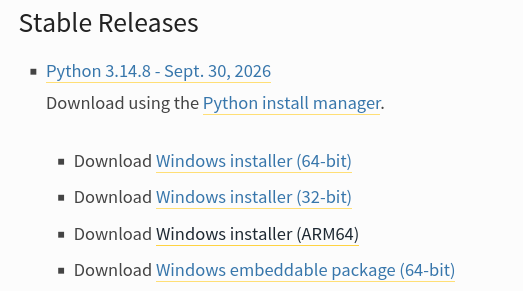
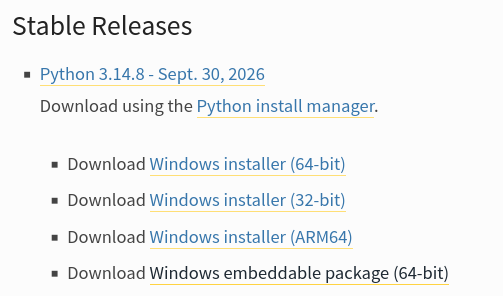
README.md finalizado

diff --git a/README.md b/README.md
@@ -56,8 +56,8 @@ Para exemplificar, incluí um documento básico em LaTeX com tudo isto:
 % Alguns exemplos de comandos:
 
 % Do 'xcolor'
-\pagecolor{black}
-\color{white}
+\pagecolor{black} % Fundo preto
+\color{white}     % Texto branco
 
 % Do BibLaTeX - usa o ficheiro bibliográfico .bib (será-te útil!)
 \addbibresource{bibliografia.bib}
@@ -153,12 +153,12 @@ Será transferido um arquivo `.zip`, que deverás extrair: abre o Explorador de 
 
 <p align="center"> <img src="imagens/biber_ficheiro.png" width="550"> </p>
 
-- **Python.** Neste site <https://www.python.org/downloads/windows/>, seleciona a opção 'Windows embeddable package (64-bit)' (como na imagem), e copia **todos os ficheiros dentro da pasta** extraída para a pasta `Latex`.
+- **Python.** Neste site <https://www.python.org/downloads/windows/>, seleciona a opção 'Windows embeddable package (64-bit)' (como na imagem), e copia **tudo dentro da pasta** extraída para a pasta `Latex`.
 
 <p align="center"> <img src="imagens/python_ficheiro.png" width="550"> </p>
 
 
-## 4. Como compilar para PDF
+### 4. Como compilar para PDF
 
 Agora que tens tudo instalado, estás preparado para compilar um relatório. Devido a diferenças da engine, só conseguirás compilar se tiveres umas pastas extras dentro da pasta `auxiliares`. Apenas tens de, na lista de ficheiros deste site, carregar no `relatorio-base.zip`, e descarregar o ficheiro:
 
@@ -167,6 +167,21 @@ Agora que tens tudo instalado, estás preparado para compilar um relatório. Dev
 Extrai a pasta e copia a resultante para um lugar à tua escolha (por exemplo, `Documentos`).
 
 #### Se estiveres no Linux (passa à frente se não)
+
+Abre o teu terminal na pasta 'relatorio-base', e usa `ls` para verificar que lá está o teu `modelo-de-relatorio.tex`. Poderás então executar o meu *script* de compilação, que chama o Tectonic automáticamente:
+
+```sh
+python make.py modelo-de-relatorio.tex
+```
+
+Podes abreviar o comando dando permissões de execução ao script. No terminal, na mesma diretoria:
+
+```bash
+chmod +x make.py
+```
+
+A partir de então, poderás compilar apenas com `./make.py modelo-de-relatorio.tex`. E parabéns, já és capaz de escrever e compilar ficheiros LaTeX!
+
 
 #### Se estiveres no Windows
 
@@ -185,9 +200,70 @@ python.exe make.py modelo-de-relatorio.tex
 O comando demorará o seu tempo a terminar. Quando deixar de escrever texto, se não houver nenhum erro, terás um ficheiro `modelo-de-relatorio.pdf` dentro da pasta, que poderás abrir e ler. Parabéns, tens uma instalação de LaTeX funcional!
 
 
-## 5. Configurar um editor de documentos
+### 5. Configurar um editor de documentos
 
+Para usar o Tectonic, recomendo-te usar o editor Visual Studio Code, da Microsoft. Existem maneiras de fazer tudo no terminal, com editores como o [Helix](https://helix-editor.com/) ou [Neovim](https://neovim.io/), mas é muito complexo, então deixei apenas os links para quem se interessar.
 
+A configuração do ambiente de edição é bastante básica: instala-se o editor, depois algumas extensões, e finalmente misturamos tudo num *layout* com tudo o que é preciso. Para instalar o editor:
+
+#### No Linux
+
+Vai à página de download do VSCode (<https://code.visualstudio.com/Download>) e clicka na opção 'x64' em '.tar.gz':
+
+<p align="center"> <img src="imagens/vscode_ficheiro_linux.png" width="450"> </p>
+
+Extrai o ficheiro descarregado, e abre o terminal na pasta extraída ('VSCode-linux-x64'). Copia, para dentro dessa pasta, o ficheiro [com.microsoft.VSCode.desktop](./com.microsoft.VSCode.desktop), que poderás descarregar diretamente do GitHub para lá. Depois, executa este comando no terminal (dentro da pasta 'VSCode...'):
+
+```bash
+bash -c 'sudo ln -s $(pwd)/bin/code /usr/local/bin/code && sudo cp resources/app/resources/linux/code.png /usr/share/icons/ && sudo cp com.microsoft.VSCode.desktop /usr/share/applications'
+```
+
+Quando terminar, o teu computador reconhecerá o VS Code como uma aplicação, que poderás abrir a partir da pesquisa, ou pelo comando `code` no terminal. Para não fechar quando quiseres fechar o teu terminal, abre normalmente pela barra de pesquisa (recomendo afixares na barra de taréfas para ser mais fácil).
+
+#### No Windows
+
+Dirige-te a <https://code.visualstudio.com/Download> e clicka na opção 'x64' do 'User Installer' para Windows:
+
+<p align="center"> <img src="imagens/vscode_ficheiro_win64.png" width="450"> </p>
+
+Isto descaregarrá um ficheiro executável. Abre-o, e segue as instruções. Quando estiver instalado, abre o programa, e afixa-o na barra de taréfas por conveniência.
+
+#### Configuração
+
+Fecha os pop-ups que abrirão inicialmente, e a janela do 'Chat' à direita. Terás um ecrã mais ou menos assim:
+
+<p align="center"> <img src="imagens/vscode-home.png" width="650"> </p>
+
+A seguir, instala duas extensões: clicka no botão das quatro caixas, no canto superior esquerdo, e usa a barra de pesquisa para procurar as extensões:
+
+- 'vscode-pdf Next'
+- 'TexLab'
+
+Tendo escrito tudo, clicka em 'Instalar', na caixa da extensão:
+
+<p align="center"> <img src="imagens/vscode-ext.png" width="450"> </p>
+
+Confirma que confias no desenvolvedor das duas extensões. No final, deverás ter uma página de extensões com esta aparência:
+
+<p align="center"> <img src="imagens/vscode-ext2.png" width="550"> </p>
+
+Podes fechar a aba das extensões como a abriste. Agora, abre a pasta do relatório base pelo menu 'Ficheiro' em cima:
+
+<p align="center"> <img src="imagens/vscode-folder.png" width="450"> </p>
+
+Terás de dar permissões próprias à pasta para poderes usar as extensões. No canto inferior esquerdo, verás uma caixa colorida que diz algo como 'Modo Restringido'. Clicka na caixa, e seleciona esta opção:
+
+<p align="center"> <img src="imagens/vscode-trust.png" width="450"> </p>
+
+Podes fechar o pop-up, está quase! Agora, na barra da esquerda, clicka no ícone dos ficheiros, e, da lista, carrega com o botão esquerdo no `modelo-de-relatorio.tex`. Depois, com o botão direito, clicka no PDF, e clicka na opção de abrir ao lado. Deverá abrir o teu PDF, ou pedir para selecionares o leitor, que deve ser o vscode-pdf. Por último, clicka no espaço vazio ao lado do separador do ficheiro `.tex`, e clicka em 'Novo Terminal':
+
+<p align="center"> <img src="imagens/vscode-terminal.png" width="450"> </p>
+
+Daqui, podes escrever o comando de compilacão (`python make.py ...`) e trabalhar no teu relatório. Deverás ter um editor com mais ou menos esta aparência:
+
+<p align="center"> <img src="imagens/vscode-editor.png" width="650"> </p>
+
+Parabéns, concluiste o tutorial! Abre a barra de ficheiros para editar os outros ficheiros da pasta, e lembra-te de gravar as tuas edições com `Ctrl + S`.
 
 
 <br>
